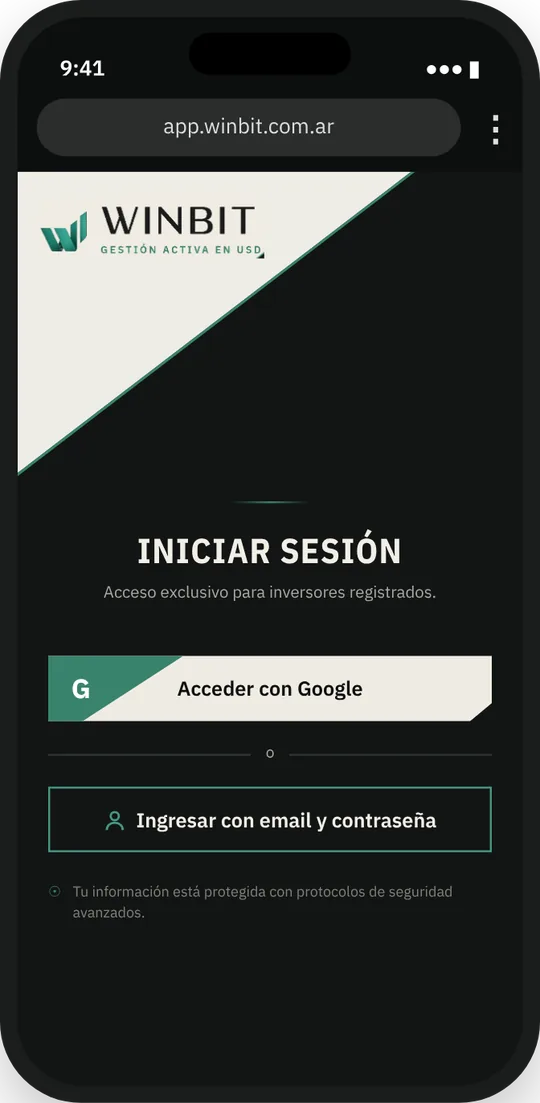
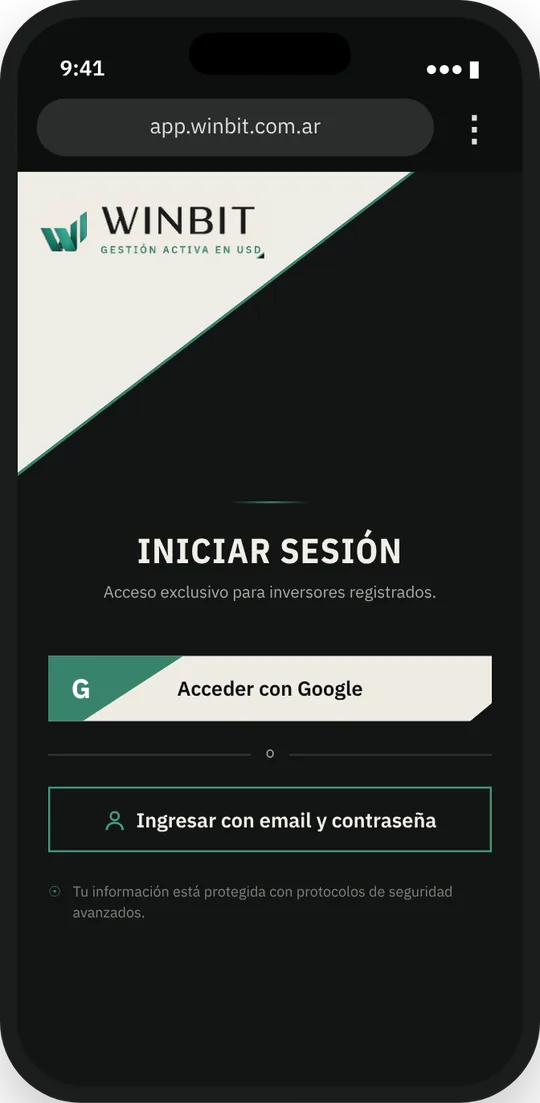
Actualizar capturas y paso 2 de Safari en /instalar

Changed region(s): [[0.2667, 0.0925, 0.6222, 0.1233], [0.7704, 0.0925, 0.8889, 0.1541]]

diff --git a/public/instalar/index.html b/public/instalar/index.html
@@ -104,7 +104,7 @@ footer small{color:var(--gris);font-size:13px}
   var STEPS = {
     safari: { label: 'iPhone · Safari', items: [
       ['img/safari-1.webp', '<b>Abrí app.winbit.com.ar</b> en Safari e iniciá sesión con Google o con tu mail.', true],
-      ['img/safari-2.webp', 'Tocá los <b>tres puntos (···)</b> abajo a la derecha y elegí <b>Compartir</b>.'],
+      ['img/safari-2.webp', 'Tocá el botón <b>Compartir</b> (el cuadrado con la flecha), abajo en el medio.'],
       ['img/safari-3.webp', 'En el menú que aparece, tocá <b>Ver más</b>.'],
       ['img/safari-4.webp', 'Elegí <b>“Agregar a inicio”</b>.'],
       ['img/safari-5.webp', 'Dejá activado <b>“Abrir como app web”</b> y tocá <b>Agregar</b>.'],
